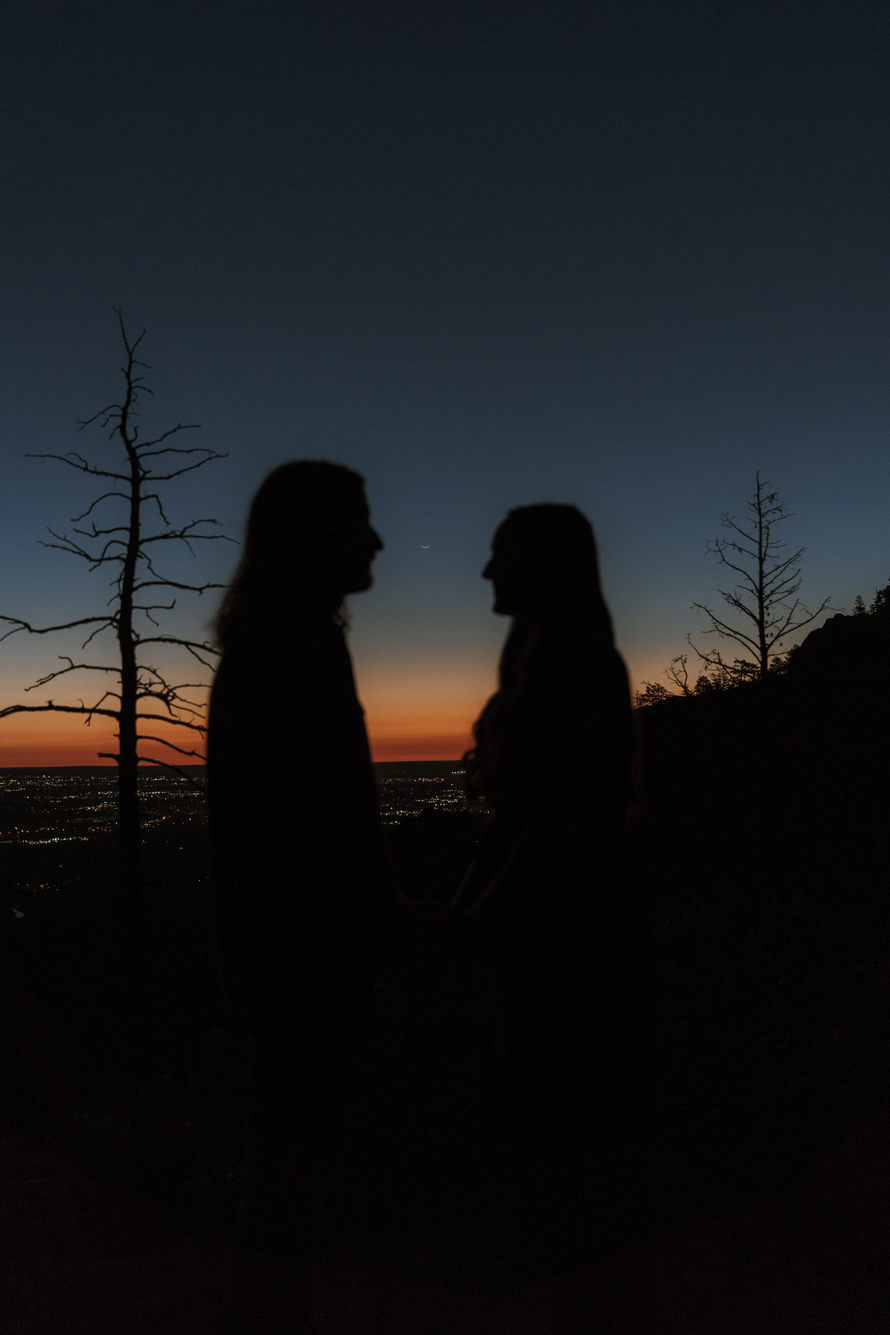
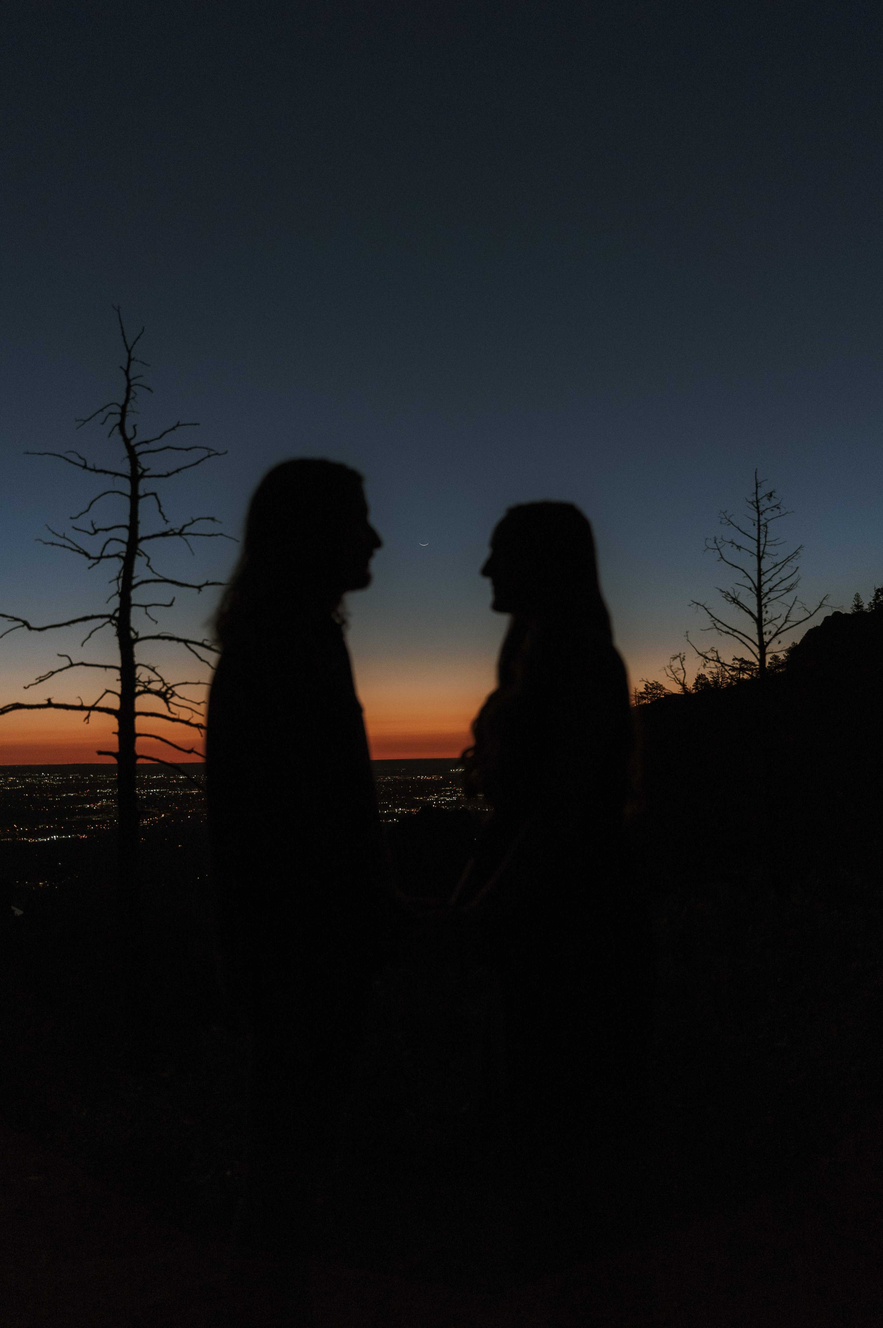
fix 压缩图片，增加单张卡片展示

diff --git a/apps/web/src/components/CarouselCard.vue b/apps/web/src/components/CarouselCard.vue
@@ -4,8 +4,9 @@ import { CSSProperties, ref, computed } from 'vue';
 interface ICardProps {
   width?: number;
   height?: number;
-  data: any[] | any;
+  data?: any[] | any;
   showNums?: number;
+  type?: 'carousel' | 'card';
 }
 
 enum ActionType {
@@ -22,8 +23,8 @@ const isEven = computed(() => {
   return props.showNums === undefined ? null : props.showNums % 2 === 0;
 });
 
-const isArray = computed(() => {
-  return Array.isArray(props.data);
+const isCarousel = computed(() => {
+  return props.type === 'carousel';
 });
 
 function getStyles(index: number) {
@@ -60,10 +61,10 @@ const hanldeClick = (type: number) => {
 
 <template>
   <div class="fun-ui__card-container">
-    <div v-if="isArray" class="fun-ui_carousel-arrow-left" @click="hanldeClick(ActionType.INCREASE)">&lt;</div>
+    <div v-if="isCarousel" class="fun-ui_carousel-arrow-left" @click="hanldeClick(ActionType.INCREASE)">&lt;</div>
     <div class="fun-ui__card" :style="{ '--width': `${width || 300}px`, '--height': `${height || 500}px` }">
-      <template v-if="isArray">
-        <div class="fun-ui__card-content-wrapper" :style="getStyles(i)" v-for="(item, i) in data" :key="i">
+      <template v-if="isCarousel">
+        <div class="fun-ui__card-content-wrapper" :style="getStyles(i)" v-for="(item, i) in data || []" :key="i">
           <slot name="item" v-bind="item"></slot>
         </div>
       </template>
@@ -73,7 +74,7 @@ const hanldeClick = (type: number) => {
         </div>
       </template>
     </div>
-    <div v-if="isArray" class="fun-ui_carousel-arrow-right" @click="hanldeClick(ActionType.DECREASE)">></div>
+    <div v-if="isCarousel" class="fun-ui_carousel-arrow-right" @click="hanldeClick(ActionType.DECREASE)">></div>
   </div>
 </template>
 

diff --git a/apps/web/src/pages/hover/HoverClose.vue b/apps/web/src/pages/hover/HoverClose.vue
@@ -21,10 +21,22 @@ const list = ref<any[]>([
 </script>
 <template>
   <div class="fun-ui__page">
-    <CarouselCard :data="list" :show-nums="3">
+    <h1>走马灯效果</h1>
+    <CarouselCard type="carousel" :data="list" :show-nums="3">
       <template #item="item">
         <CardContent :data="item" />
       </template>
+    </CarouselCard>
+    <div class="fun-ui__tips">
+      <span>&lt;&lt;&lt;</span>
+      hover the card
+      <span>>>></span>
+    </div>
+  </div>
+  <div class="fun-ui__page">
+    <h1>单张卡片效果</h1>
+    <CarouselCard>
+      <CardContent :data="list[0]" />
     </CarouselCard>
     <div class="fun-ui__tips">
       <span>&lt;&lt;&lt;</span>
@@ -41,6 +53,13 @@ const list = ref<any[]>([
   background: #eee;
   height: calc(100vh - 60px);
   position: relative;
+
+  h1 {
+    position: absolute;
+    color: #333;
+    font-weight: 600;
+    top: 10px;
+  }
   .fun-ui__tips {
     position: absolute;
     bottom: 80px;

diff --git a/apps/web/src/App.vue b/apps/web/src/App.vue
@@ -34,7 +34,7 @@ const router = useRouter();
   top: 0;
   left: 0;
   padding: 15px 15px;
-  background-color: rgba(255, 255, 255, 0.2);
+  background-color: rgba(0, 0, 0, 0.2);
   z-index: 999;
   width: 100%;
   .fun-ui__logo {
